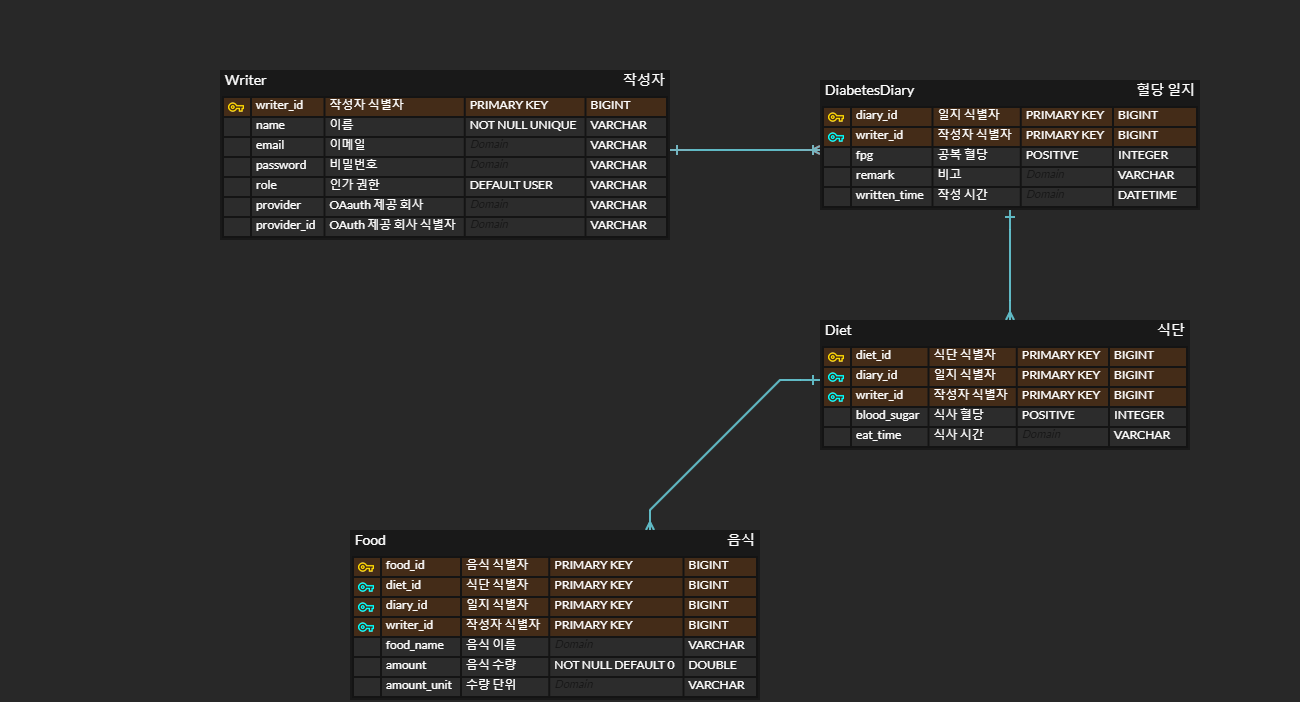
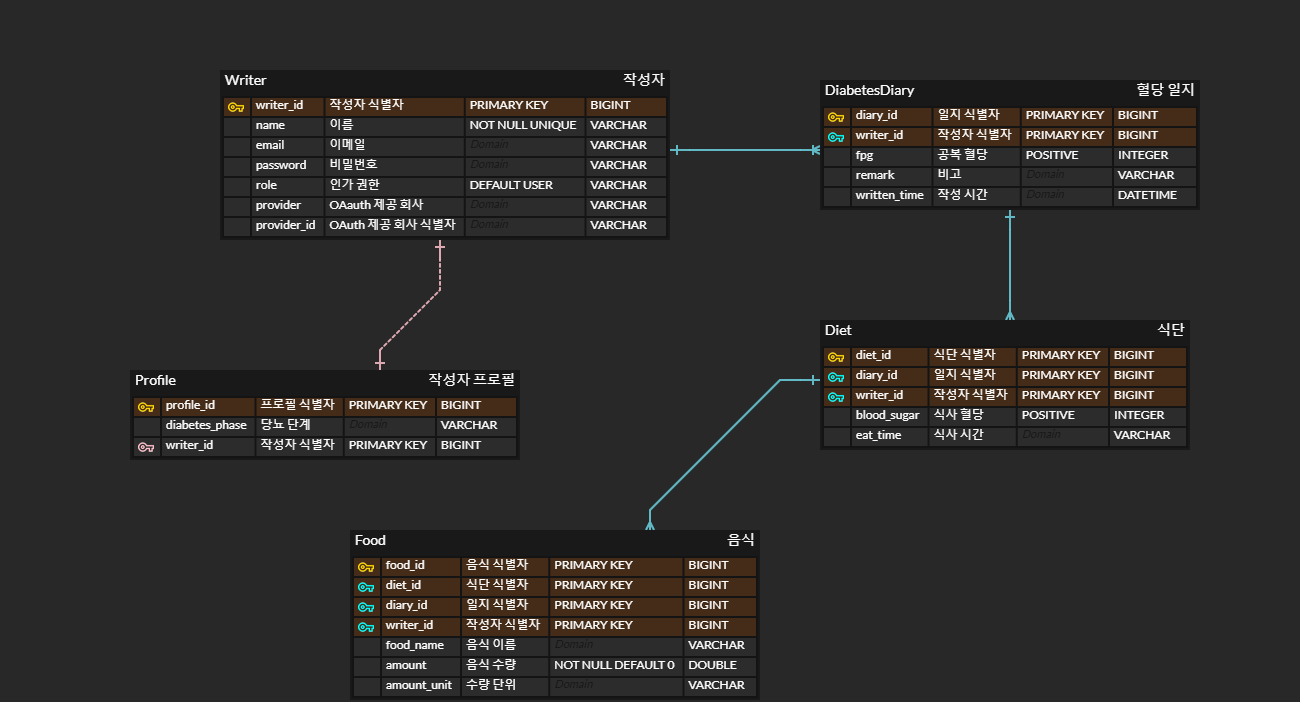
erd 편집 및 프로필 내 정보 조정

Changed region(s): [[0.0923, 0.5385, 0.4, 0.6581]]

diff --git a/src/main/resources/static/css/profile/profile.css b/src/main/resources/static/css/profile/profile.css
@@ -134,9 +134,6 @@ h6 {
     padding-bottom: 30px;
 }
 
-#changeProfileImage {
-    float: left;
-}
 
 #withdrawalBtn {
     float: right;
